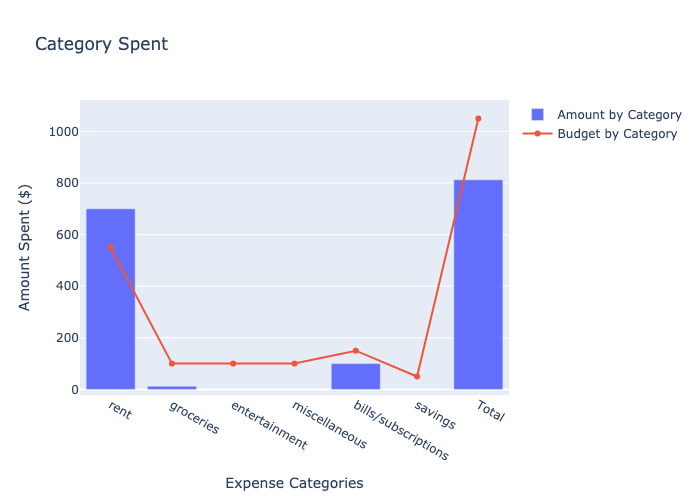
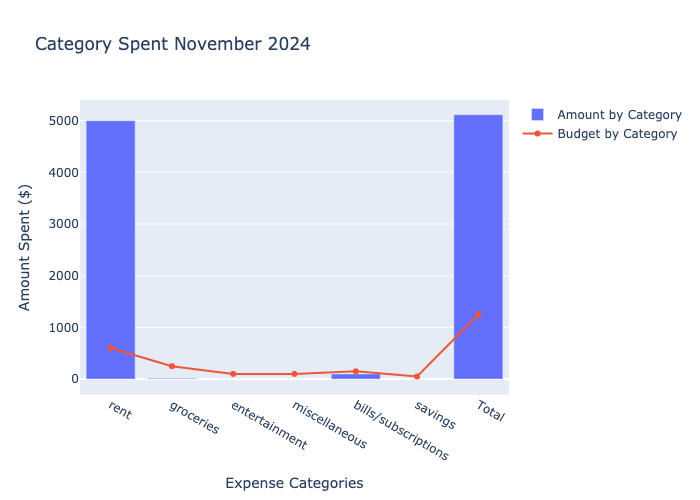
graph items almost complete

diff --git a/app/templates/char.html b/app/templates/char.html
@@ -19,22 +19,24 @@
         </aside>
         
         <div class="filter">
-            <label for="month">Month:</label>
-            <select id="month">
-                <option value="January">January</option>
-                <option value="February">February</option>
-                <option value="March">March</option>
-                <option value="April">April</option>
-                <option value="May">May</option>
-                <option value="June">June</option>
-                <option value="July">July</option>
-                <option value="August">August</option>
-                <option value="September">September</option>
-                <option value="October">October</option>
-                <option value="November">November</option>
-                <option value="December">December</option>
-            </select>
-            <button id="apply-btn">Apply</button>
+            <form action="/myreport" method="POST">
+                <label for="month">Month:</label>
+                <select id="month" name="month">
+                    <option value="January">January</option>
+                    <option value="February">February</option>
+                    <option value="March">March</option>
+                    <option value="April">April</option>
+                    <option value="May">May</option>
+                    <option value="June">June</option>
+                    <option value="July">July</option>
+                    <option value="August">August</option>
+                    <option value="September">September</option>
+                    <option value="October">October</option>
+                    <option value="November">November</option>
+                    <option value="December">December</option>
+                </select>
+                <button id="apply-btn">Apply</button>
+            </form>
         </div>
 
         <div class="chart-container">

diff --git a/app/templates/insertExpense.html b/app/templates/insertExpense.html
@@ -1,5 +1,6 @@
 <!DOCTYPE html>
 <html>
+    <link rel="stylesheet" href= "{{ url_for('static',filename='styles/style.css') }}">
 <body>
 
 <h1>Insert Expense</h1>

diff --git a/app/app.py b/app/app.py
@@ -458,6 +458,7 @@ def budget():
         catList = [expense_cat, expense_amt]
         cat = request.args['item']
         print(catList)
+        print("cat: " + str(cat))
         print("got inside budget post")
 
         #amt = request.args
@@ -518,7 +519,35 @@ def updateCategory():
 def report():
     # handle post request, which is triggered by clicking update button in updateExpense.html
     if request.method == 'POST':
-        listItems = ["test"]
+        
+        year = '2024'
+
+        #get month from form
+        month = request.form.get('month')
+        #dictionary for building date string based on month
+        monthDict = {'January': '-01-01', 'February': '-02-01', 'March': '-03-01', 'April': '-04-01',
+                     'May': '-05-01', 'June': '-06-01', 'July': '-07-01', 'August': '-08-01', 'September': '-09-01',
+                     'October': '-10-01', 'November': '-11-01', 'December': '-12-01'
+                     }
+
+        print("month: " + str(month))
+
+        print("request object" + str(request))
+
+        currentMonth = monthDict.get(month)
+
+        dateString = year + currentMonth
+
+        # use date format 
+        dateFormat = '%Y-%m-%d'
+
+        startDate = datetime.strptime(dateString, dateFormat)
+        dateFormat = ''
+
+        #make date object out of dateString
+     
+        listItems = ["Testing"]
+        print("Got into post for char.html")
         return render_template('char.html', listItems = listItems)
     # otherwise if GET, just want to display current ID given ID passed to get request
     elif request.method == 'GET':
@@ -558,6 +587,11 @@ def report():
         # Get the first day of the current month
         firstDay = today.replace(day=1)
 
+        #build string for month and year to place in the title
+        dateTitle = firstDay.strftime("%B %Y")
+
+        print("Date Text for graph: " + str(dateTitle))
+
         #want next month
         nextMonth = firstDay + timedelta(days = 32) 
 
@@ -590,7 +624,7 @@ def report():
         graph.add_trace(plotGraph.Scatter(x=categories, y=amountChart, name='Budget by Category', mode='lines+markers'))
 
         graph.update_layout(
-            title = 'Category Spent',
+            title = 'Category Spent ' + str(dateTitle),
             xaxis_title = 'Expense Categories',
             yaxis_title = 'Amount Spent ($)'
         )
